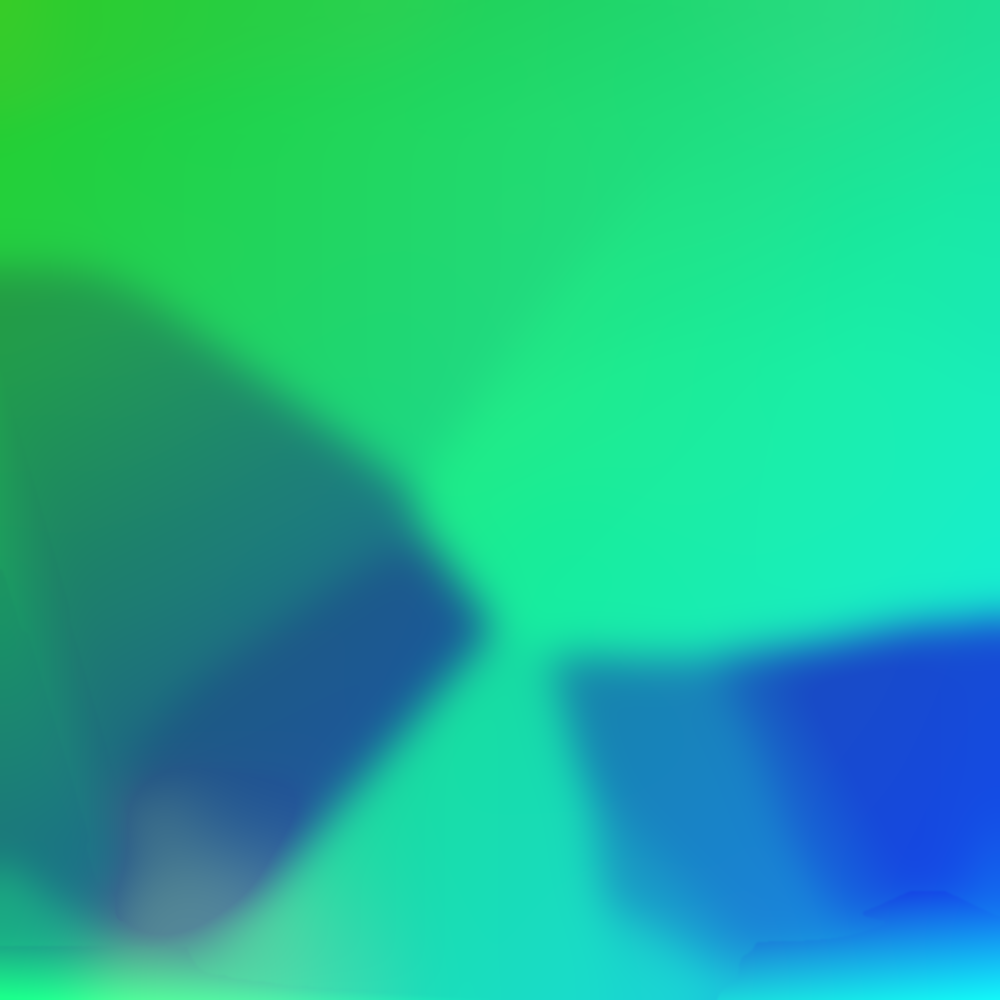
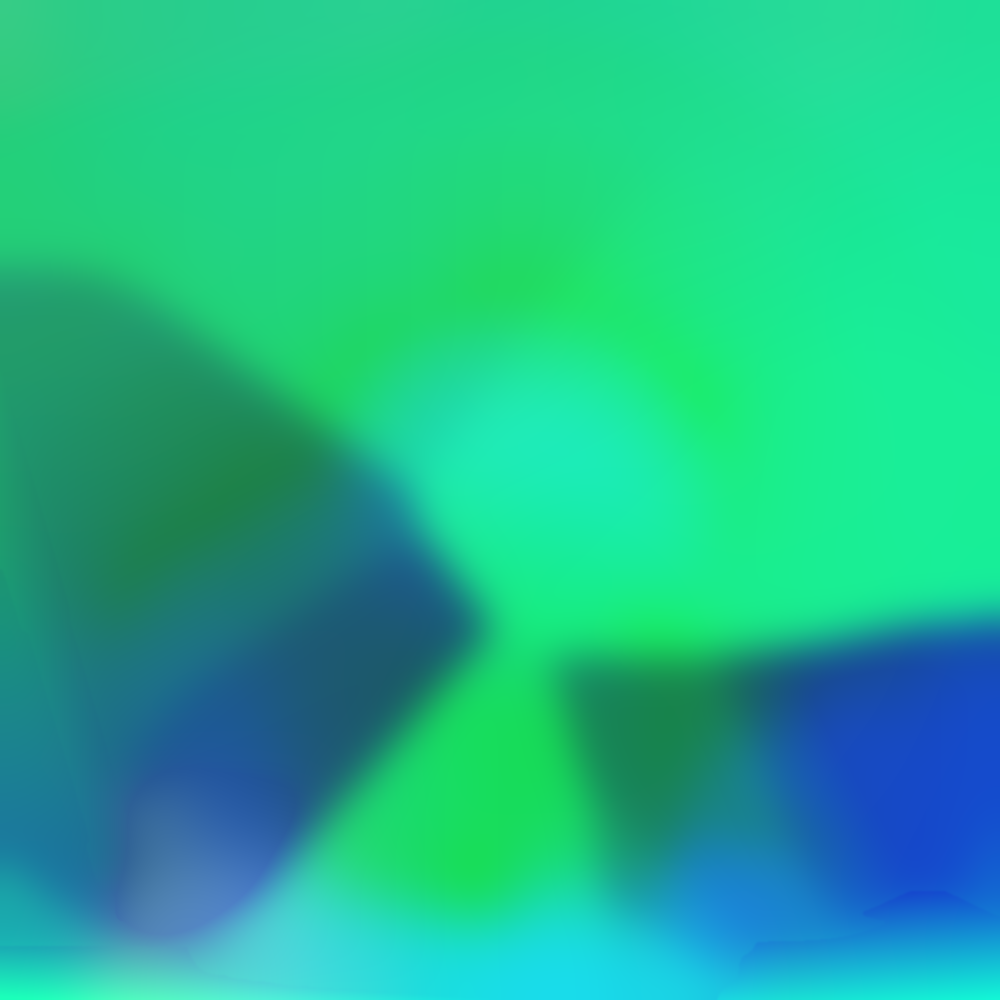
p151: revert p150's whole-body plane; only his face made rigid, the rest exactly as p149
Claude-Session: https://claude.ai/code/session_01XfFywDmuMByKX4aTc2T151

diff --git a/src/lab/04-profile/Spatial04.tsx b/src/lab/04-profile/Spatial04.tsx
@@ -7,8 +7,8 @@ import { useEffect, useRef, type RefObject } from 'react';
    his cutout (made solid inside, its stray specks dropped); the near things (the bar, the camera, the pole, the desk)
    found on the depth and snapped to the picture's edges; the wall with both painted out by LaMa; his and their colours
    with the wall taken out of their edge pixels. Behind him the wall drifts with the pointer (or the tilt), the near
-   things move against it, he stays put — each of the near things and he moving as one rigid piece (a plane fitted to its
-   depth), so nothing bends: his face, by its own depth, had stretched at the nose (p150). Subtle, like iOS, or pronounced (2.5×).
+   things move against it, he stays put — each near thing moving as one rigid piece (a plane fitted to its depth), and his
+   face too, so his nose no longer stretches (p151; the rest of him by his own smooth depth, as p147 built it). Subtle, like iOS, or pronounced (2.5×).
    The picture and his cutout (which lies over the cards behind him) are drawn by the same shader and the same offset,
    so they stay in register. Off under reduced motion or without WebGL: the plain images. */
 

diff --git a/tools/depth/s8_face.py b/tools/depth/s8_face.py
@@ -1,0 +1,38 @@
+# p151: only his face made one rigid piece (a plane fitted to its depth), the rest of him exactly as p149 — his nose, standing out from the
+# cheek in the depth, had stretched in and out at the strong setting. Rewrites only the B channel (his depth) of the depth
+# map, inside a soft ellipse round his face; the wall's (R) and the near things' (G) stay as they are.
+import numpy as np, cv2, sys
+from PIL import Image
+src = open('s4_layers.py').read(); ns = {}; exec(src[:src.index('for name, pic, cut in')], ns); ext = ns['ext']
+A = '/home/claude/portfolio-iteration/src/assets/'; OUT = '/home/claude/portfolio-iteration/public/depth/'
+FACES = {'illustration': (495, 580, 175, 135), 'desk': (595, 780, 185, 150)}  # centre x, y, half-axes, in the picture's pixels
+SAVE = len(sys.argv) > 1
+for name in ['illustration', 'desk']:
+    D = np.asarray(Image.open(OUT + f'{name}.png')).copy(); H, W = D.shape[:2]
+    L = np.asarray(Image.open(OUT + f'{name}-layers.png')).astype(np.float32) / 255.; him = L[..., 1]
+    d = np.load(f'{name}-d.npy').astype(np.float32)
+    bg = D[..., 0].astype(np.float32) / 255.
+    hd = np.maximum(ext(d, him, W * .03), bg + .12)            # his depth as p149 had it (float)
+    cx, cy, ax, ay = FACES[name]
+    yy, xx = np.mgrid[0:H, 0:W].astype(np.float32)
+    E = np.zeros((H, W), np.uint8); cv2.ellipse(E, (cx, cy), (int(ax * .8), int(ay * .8)), 0, 0, 360, 1, -1); core = (E > 0) & (him > .5)
+    X = np.stack([np.ones(core.sum()), xx[core], yy[core]], 1); c = np.linalg.lstsq(X, hd[core], rcond=None)[0]
+    flat = (c[0] + c[1] * xx + c[2] * yy).astype(np.float32)   # his face's own tilt, as a plane: it moves as one, nothing in it bends
+    F = np.zeros((H, W), np.float32); cv2.ellipse(F, (cx, cy), (ax, ay), 0, 0, 360, 1., -1)
+    F = cv2.GaussianBlur(F, (0, 0), W * .05)                   # feathered wide, so the face's edge eases into the rest
+    F[F < .01] = 0                                             # and the rest of him exactly as before
+    new = hd * (1 - F) + flat * F
+    m = him > .5
+    def stretch(f):
+        gx = np.gradient(f, axis=1) * W; gy = np.gradient(f, axis=0) * H
+        return np.maximum(np.abs(gx) * .06, np.abs(gy) * .036)
+    fm = m & (F > .5); rest = m & (F < .02)
+    s0, s1 = stretch(hd), stretch(new)
+    print(name, 'face: stretch p50 %.3f p99 %.3f max %.3f -> p50 %.3f p99 %.3f max %.3f' % (np.median(s0[fm]), np.percentile(s0[fm], 99), s0[fm].max(), np.median(s1[fm]), np.percentile(s1[fm], 99), s1[fm].max()))
+    band = m & (F > .02) & (F < .5)
+    print('   band: max %.3f -> %.3f   rest unchanged: %s   max |B change| outside face %.4f' % (s0[band].max(), s1[band].max(), np.allclose(new[rest], hd[rest]), np.abs(new - hd)[F < .02].max()))
+    # p149's own B, as stored, against this float version (so only the face changes)
+    print('   stored B vs recomputed: max diff %d levels' % np.abs(D[..., 2].astype(int) - (np.clip(hd, 0, 1) * 255 + .5).astype(int)).max())
+    if SAVE:
+        D[..., 2] = (np.clip(new, 0, 1) * 255 + .5).astype(np.uint8)
+        Image.fromarray(D).save(OUT + f'{name}.png', optimize=True); print('   saved')

diff --git a/tools/depth/s4_layers.py b/tools/depth/s4_layers.py
@@ -53,19 +53,7 @@ for name, pic, cut in [('illustration', 'nitish-desk-illustration.webp', 'nitish
     gone = cv2.dilate(((him > .02) | (near > .02)).astype(np.uint8), np.ones((3, 3), np.uint8), iterations=int(W * .008))
     bg = ext(d, 1 - gone, W * .03)
     nd = np.maximum(planes(d, near, W * .02), bg + .2)
-    # him as one rigid piece too (24 Oct, Nitish: "my nose stretches in and out"): his own depth, smoothed only 3% of the
-    # width, still had the nose and cheek in it, and moving by it pulled his face up to 28% out of shape at the strong
-    # setting; a plane fitted to his depth (robustly) tilts him as a whole — no more than 2.6% across all of him, evenly
-    m = him > .5; yy, xx = np.mgrid[0:H, 0:W].astype(np.float32); xx /= W; yy /= H
-    X = np.stack([np.ones(m.sum()), xx[m], yy[m]], 1); y = d[m]; c = np.linalg.lstsq(X, y, rcond=None)[0]
-    for _ in range(3):
-        r = np.abs(X @ c - y); w = 1 / (1 + (r / (np.median(r) + 1e-3)) ** 2); c = np.linalg.lstsq(X * w[:, None], y * w, rcond=None)[0]
-    hd = (c[0] + c[1] * xx + c[2] * yy).astype(np.float32)
-    # and his head held where nothing moves (the shader's focus, .55), as Spatial Scenes hold the subject's face: the plane's
-    # value at the middle of his head (the top third of him) set to it
-    ys_, xs_ = np.nonzero(m); top = ys_ < ys_.min() + (ys_.max() - ys_.min()) / 3
-    hd += .55 - (c[0] + c[1] * xs_[top].mean() / W + c[2] * ys_[top].mean() / H)
-    print('   him plane', np.round(c, 3))
+    hd = np.maximum(ext(d, him, W * .03), bg + .12)
     dep = np.stack([bg, nd, hd], -1)
     Image.fromarray((np.clip(dep, 0, 1) * 255 + .5).astype(np.uint8)).save(OUT + f'{name}.png', optimize=True)
     # his colours, with the wall and the desk taken out of his edge pixels (ML foreground estimation)

diff --git a/LOG.md b/LOG.md
@@ -212,6 +212,7 @@ Route: `/lab/04-profile` (the nav sets `/:view`; the home screen and the project
 **Open:** the other views (what each tab shows); what opens on a card click; light mode or dark only; the logo at the nav's head (later, Nitish); the phone layout is a first pass (a column: icon row, picture, lines, name, stack, Off duty).
 
 **History**
+- p151 — (Nitish, 23 Oct: "you've made it worse — now the whole picture stretches; it was 98% accurate before. Fix precisely around the nose, or don't touch it") He was right: p150 made all of him one tilted plane, which moved every part of him (hair, shoulders, hands) differently from before — the whole figure looked stretched. Reverted to p149's depth exactly, then changed only his face: inside a soft ellipse round the face (feathered over ~5% of the width into the rest of him) his depth is replaced by a plane fitted to the face's own depth, so the face moves as one piece and the nose no longer moves against the cheek. Everything else is byte-identical to p149 — the wall's and the near things' depth untouched, his own depth unchanged outside the face. Measured, at the strong setting (how far the face's shape departs from a rigid move, after the best fit; pointer left / right / up / down): drawing 7.5 / 7.2 / 4.2 / 4.4 → 2.4 / 2.7 / 1.4 / 1.5; photo 5.4 / 3.9 / 2.4 / 2.4 → 2.8 / 2.1 / 1.3 / 1.3. Hair, ear, hood, body and hands as p149 (same within noise). tools/depth/s8_face.py (run after s4_layers.py; s4 back to p149's). Shot: 04-p151-face (top p149, bottom now; pointer left, rest, right, up, down, two corners; drawing and photo).
 - p150 — (Nitish, 23 Oct: "in the pronounced version, my nose stretches in and out — it looks a little weird; fix it if possible") The cause: his layer moved by his own depth, smoothed only 3% of the width, which still held the nose standing out from the cheek; at the strong setting that pulled his face up to 28% out of shape (measured: the warp's local stretch inside him, median 7%). Now he moves as one rigid piece, as the camera and the desk already did: a plane fitted (robustly) to his depth, so he only tilts as a whole — at most 2.6% across all of him, evenly, nothing inside him bends — and the plane is set so the middle of his head stays where nothing moves, as Spatial Scenes hold the subject's face. Checked at all eight extremes for both pictures: his face is the same shape in every frame; the hands, the desk under them and the pole as before. (tools/depth/s4_layers.py) Shot: 04-p150-face-rigid (top rows before, bottom after; pointer left, rest, right, up, down; drawing and photo).
 - p149 — (Nitish, 23 Oct, with five screenshots of his iPhone's home and lock screens: "the light spill is too much; reanalyse and replicate how the edges look; no need for the gyro interaction — at most a slider to rotate the pattern, two sides lit and the others less") Measured on his screenshots (the Batteries and Weather widgets, the dock, at 3 device pixels to the point): the edge is a single rim, 1pt, its outer pixel brightest and fading inward (white at about .65, .48, .3 over the fill); lit by the edge's facing — every straight edge evenly along its whole length, the top and the bottom lit equally, the left and right sides not at all, and through the corners the rim fades as the curve turns away, gone about 45° off the axis; no glow inside, none outside, no line on the unlit sides. So p148's bloom, inner glow, bevel, light spill, colour tint and the pointer-following light are gone. The rim now: a 1px ring cut from the frame's shape (white at .52 in dark, .75 in light — the widgets' three-step fade averaged, as half-pixel rings snap away), painted by facing with one conic gradient round the frame's centre — constant along each edge, and through each corner the facings in 15° steps, each placed (CSS atan2 from the frame's size) at the point on the curve that faces that way, so there are no seams; brightness cos(2 × the angle off the axis), clamped, to the power 1.5, fitted to the widgets' corners. It sits over the frame's contents (their shadows had dimmed the bottom rim), and the frame is sized to whole, even pixels so the line is as crisp at the bottom as at the top. Controls → Main container → Edge light: iOS rim / Off (as before), and Light angle (0–180°; 0 lights the top and bottom, 90 the sides; default 8°, a little clockwise, as in his screenshots). Shots: 04-p149-edge-rim (corners: dark solid, dark glass, light solid, light glass, off), 04-p149-edge-rim-angle90.
 - p148 — (Nitish, 23 Oct: "the main container's border — improve it like iOS's latest cards: the strokes, the highlights, the light leaks, a bit in the background too; not the Liquid Glass interaction, just how it looks"; he chose: both versions of the container, and the light fixed or following the pointer as a control) Before: the solid container had an even 1px line, 6% white; the glass one added a brighter 1px line along the top. Now (Controls → Main container → Edge light: Fixed, top-left (default) / Follows the pointer / Off, as before): Liquid Glass defines its silhouette with light (WWDC25 "Meet Liquid Glass": light sources shine on the material, highlights respond to its geometry, they move with the device), so the edge is lit from one direction — a hairline rim whose brightness goes round it, strongest facing the light and about half on the far corner (the light through the glass off its back edge), a faint even line between; a soft bloom just inside the rim where it is lit; a 1px inner bevel and a wide faint glow inside the lit sides; a little light spilling outside toward the light. The glass version takes it stronger, with a hint of blue and pink where the rim's light fades (light splitting at a glass edge); the light theme stronger again. The rim is a ring cut from the frame's own shape, so it follows the iOS corner. Following the pointer, the light stands where the pointer is (its direction from the frame's centre, eased), back to the top-left when the pointer leaves the page; under reduced motion it stays fixed. It is drawn on a layer of its own under the frame's contents (.edge4; EdgeLight04.ts), so the light moving repaints only that layer. Not on the phone layout (no frame there). Shots: 04-p148-edge-light (top-left and bottom-right corners — before; solid; glass; light theme; pointer at the top-right), 04-p148-edge-light-glass.
